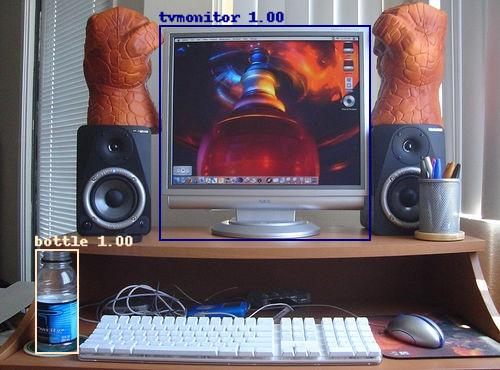
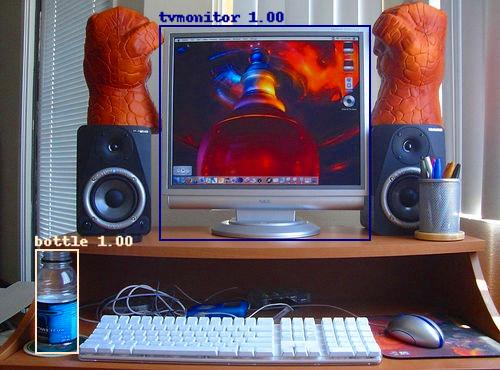
fix flip augment test

diff --git a/augment_test/augment.py b/augment_test/augment.py
@@ -115,7 +115,8 @@ def hsv(data, image, scored_bboxes_and_names):
     
 def saturation(data, image, scored_bboxes_and_names):
     data = cv2.cvtColor(data, cv2.COLOR_RGB2HSV)
-    r = np.random.uniform(0.95, 1.05)
+    # r = np.random.uniform(0.95, 1.05)
+    r = 1.5
     data[..., 1] = np.clip(data[..., 1] * r, 0, 255)
     data = cv2.cvtColor(data, cv2.COLOR_HSV2RGB)
     image = Image.fromarray(data, mode = "RGB")
@@ -127,7 +128,8 @@ def saturation(data, image, scored_bboxes_and_names):
 
 def hue(data, image, scored_bboxes_and_names):
     data = cv2.cvtColor(data, cv2.COLOR_RGB2HSV)
-    r = np.random.uniform(-0.05, 0.05)
+    # r = np.random.uniform(-0.05, 0.05)
+    r = 0.05
     data[..., 0] = np.mod(data[..., 0] + r * 180, 180)
     data = cv2.cvtColor(data, cv2.COLOR_HSV2RGB)
     image = Image.fromarray(data, mode = "RGB")
@@ -140,7 +142,8 @@ def hue(data, image, scored_bboxes_and_names):
 def contrast(data, image, scored_bboxes_and_names):
     
     mean = data.mean(axis=0).mean(axis=0)
-    r = np.random.uniform(0.9, 1.1)
+    # r = np.random.uniform(0.9, 1.1)
+    r = 1.5
     data = np.clip((data- mean) * r + mean, 0, 255).astype(np.uint8)
     image = Image.fromarray(data, mode = "RGB")
     
@@ -152,7 +155,8 @@ def contrast(data, image, scored_bboxes_and_names):
     
 def brightness(data, image, scored_bboxes_and_names):
     
-    r = np.random.uniform(-0.1, 0.1)
+    # r = np.random.uniform(-0.1, 0.1)
+    r = -0.1
     data = np.clip(data + r * 255, 0, 255).astype(np.uint8)
     image = Image.fromarray(data, mode = "RGB")
     
@@ -202,9 +206,9 @@ if __name__ == "__main__":
         scored_bboxes_and_names.append(corners)
        
     visualize.draw_gt_detections(save_path="/home/stu7/prml23_project/augment_test/no_augment.jpg",
-                                image=image,
-                                scored_bboxes_and_names=scored_bboxes_and_names,
-                                class_id_to_name=class_id_to_name)
+                                image=copy.deepcopy(image),
+                                scored_bboxes_and_names=copy.deepcopy(scored_bboxes_and_names),
+                                class_id_to_name=copy.deepcopy(class_id_to_name))
     horizontal_flip(data=copy.deepcopy(data), image=copy.deepcopy(image), scored_bboxes_and_names=copy.deepcopy(scored_bboxes_and_names))
     vertical_flip(data=copy.deepcopy(data), image=copy.deepcopy(image), scored_bboxes_and_names=copy.deepcopy(scored_bboxes_and_names))
     hsv(data=copy.deepcopy(data), image=copy.deepcopy(image), scored_bboxes_and_names=copy.deepcopy(scored_bboxes_and_names))
@@ -212,4 +216,4 @@ if __name__ == "__main__":
     hue(data=copy.deepcopy(data), image=copy.deepcopy(image), scored_bboxes_and_names=copy.deepcopy(scored_bboxes_and_names))
     contrast(data=copy.deepcopy(data), image=copy.deepcopy(image), scored_bboxes_and_names=copy.deepcopy(scored_bboxes_and_names))
     brightness(data=copy.deepcopy(data), image=copy.deepcopy(image), scored_bboxes_and_names=copy.deepcopy(scored_bboxes_and_names))
-    # add_noise(data=copy.deepcopy(data), image=copy.deepcopy(image), scored_bboxes_and_names=copy.deepcopy(scored_bboxes_and_names))
+    add_noise(data=copy.deepcopy(data), image=copy.deepcopy(image), scored_bboxes_and_names=copy.deepcopy(scored_bboxes_and_names))
